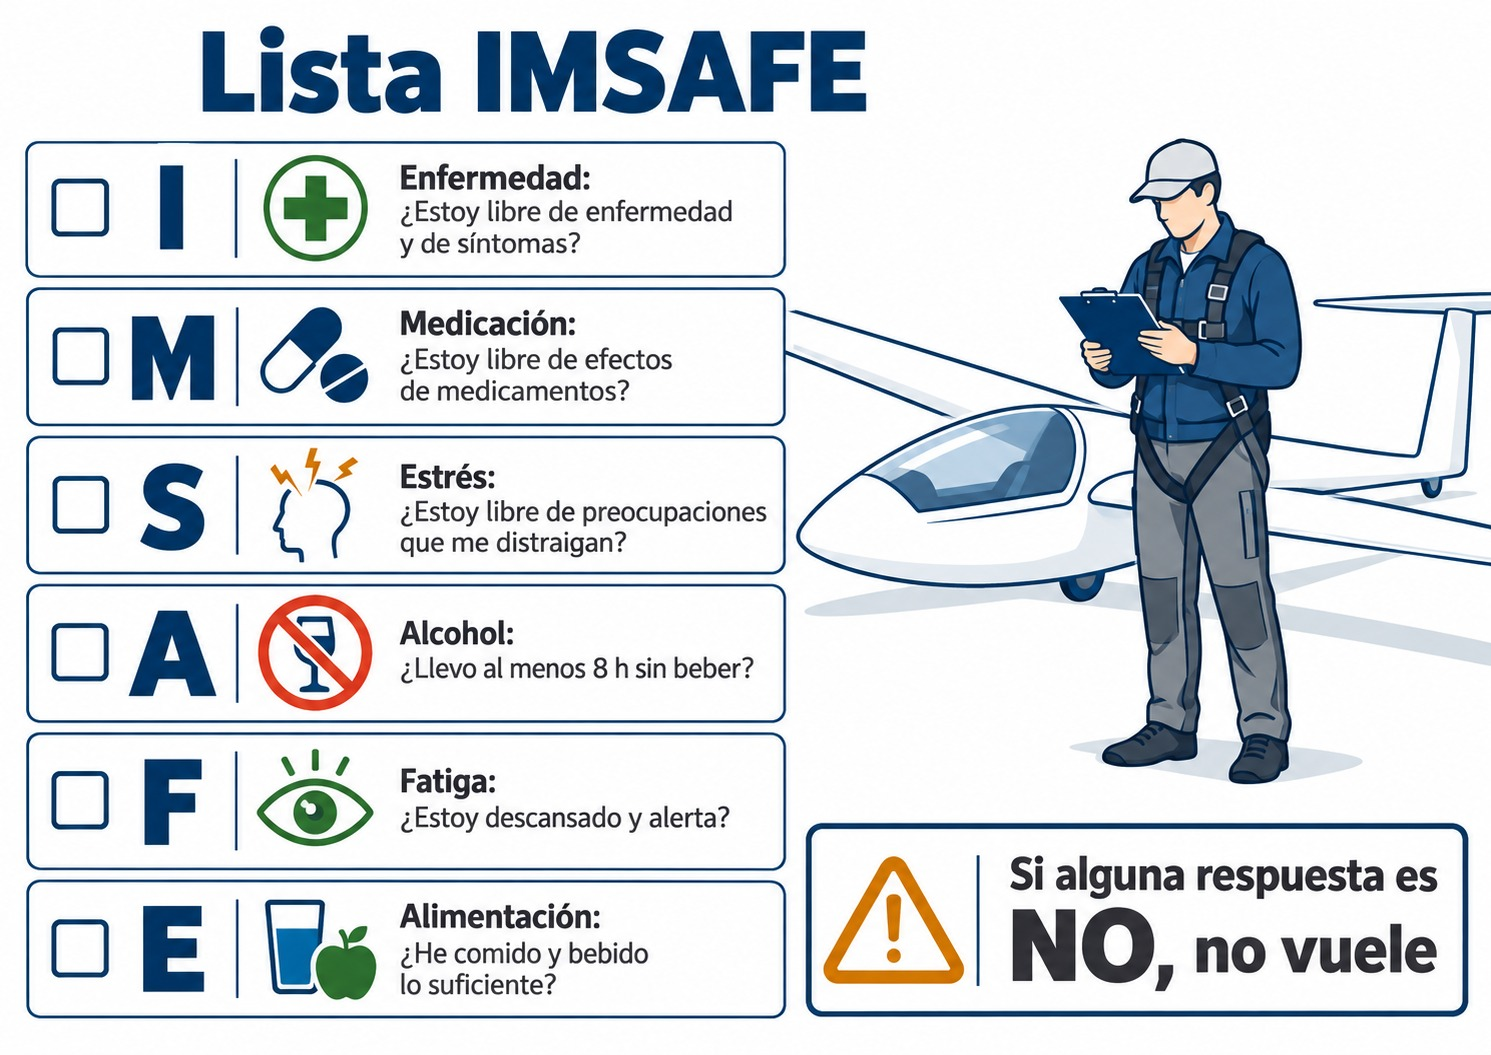
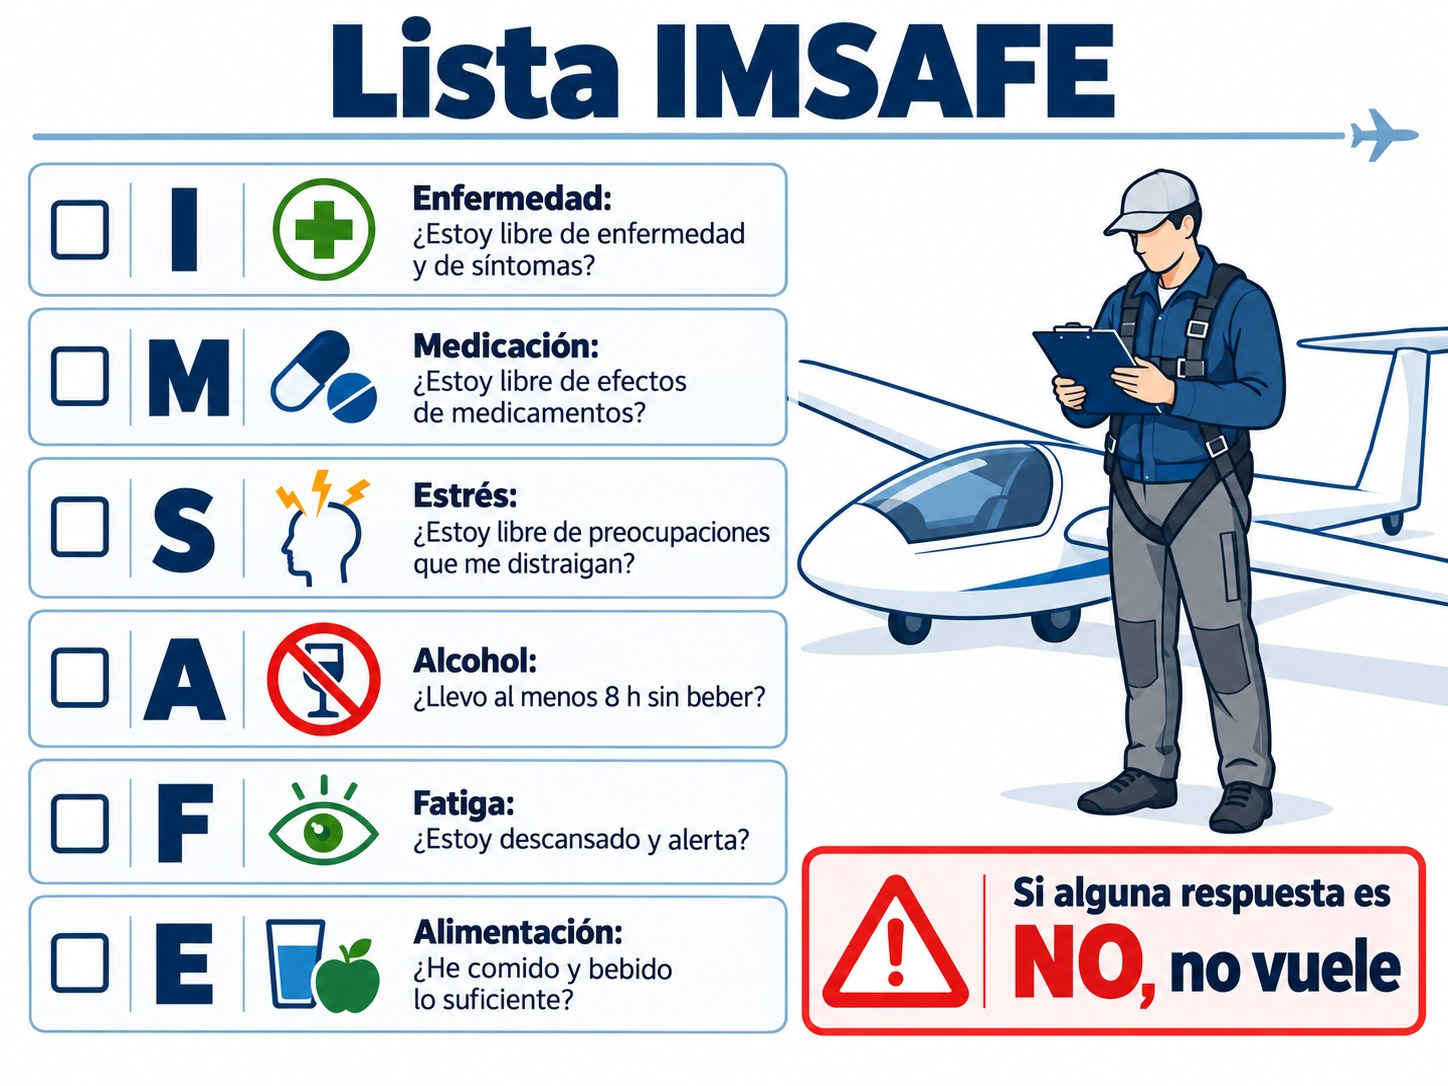
fix(02): traducir las figuras de la edición inglesa
Las quince figuras inglesas del libro 02 pasan a ser las españolas
nuevas con los textos traducidos (terminología de en/terminologia.yml),
editadas con ChatGPT. Ocho pies ingleses pierden la clase .corregir y
la nota (FIX: …). La curva de Yerkes-Dodson y la cinetosis conservan
algún rótulo en español y siguen marcadas.

Incluye la versión regenerada de cinco figuras españolas (Maslow,
IMSAFE, curva de estrés, cinetosis y cianosis). Fichas, seguimiento y
los dos CHANGELOG al día.

Refs #60

diff --git a/recursos/auditorias/seguimiento-libro-02.md b/recursos/auditorias/seguimiento-libro-02.md
@@ -148,15 +148,15 @@ clase y la nota, y se anota aquí.
 
 | Capítulo | Figura | Hallazgo | Marcada en | Sustituida en |
 | --- | --- | --- | --- | --- |
-| cap01 | `02-cap01-piramide-maslow` | TEC-01 (rótulo SMS) | fase 3 | 9 oct 2026, issue #60 (edición española) |
-| cap01 | `02-cap01-queso-suizo` | COH-03 | fase 3 | 9 oct 2026, issue #60 (edición española) |
-| cap01 | `02-cap01-cadena-error` | COH-04 | fase 3 | 9 oct 2026, issue #60 (edición española) |
-| cap02 | `02-cap02-imsafe` | COH-01 | fase 2 | 9 oct 2026, issue #60 (edición española) |
-| cap02 | `02-cap02-curva-estres` | TEC-09 | fase 3 | 9 oct 2026, issue #60 (edición española) |
-| cap03 | `02-cap03-decide` | TEC-03 | fase 2 | 9 oct 2026, issue #60 (edición española) |
-| cap03 | `02-cap03-vision-tunel` | PED-04 | fase 5 | 9 oct 2026, issue #60 (edición española) |
-| cap04 | `02-cap04-hipoxia-tiempo-conciencia` | COH-02 | fase 2 | 9 oct 2026, issue #60 (edición española) |
-| cap04 | `02-cap04-pulsioximetro` | COH-13 (marca comercial) | fase 7 | 9 oct 2026, issue #60 (edición española) |
+| cap01 | `02-cap01-piramide-maslow` | TEC-01 (rótulo SMS) | fase 3 | 9 oct 2026, issue #60; inglés, 20 oct 2026 |
+| cap01 | `02-cap01-queso-suizo` | COH-03 | fase 3 | 9 oct 2026, issue #60; inglés, 20 oct 2026 |
+| cap01 | `02-cap01-cadena-error` | COH-04 | fase 3 | 9 oct 2026, issue #60; inglés, 20 oct 2026 |
+| cap02 | `02-cap02-imsafe` | COH-01 | fase 2 | 9 oct 2026, issue #60; inglés, 20 oct 2026 |
+| cap02 | `02-cap02-curva-estres` | TEC-09 | fase 3 | 9 oct 2026, issue #60; inglés pendiente (un rótulo en español) |
+| cap03 | `02-cap03-decide` | TEC-03 | fase 2 | 9 oct 2026, issue #60; inglés, 20 oct 2026 |
+| cap03 | `02-cap03-vision-tunel` | PED-04 | fase 5 | 9 oct 2026, issue #60; inglés, 20 oct 2026 |
+| cap04 | `02-cap04-hipoxia-tiempo-conciencia` | COH-02 | fase 2 | 9 oct 2026, issue #60; inglés, 20 oct 2026 |
+| cap04 | `02-cap04-pulsioximetro` | COH-13 (marca comercial) | fase 7 | 9 oct 2026, issue #60; inglés, 20 oct 2026 |
 
 ## Fichas de las figuras
 
@@ -183,7 +183,11 @@ figuras, generadas con ChatGPT a partir de las fichas; sus fichas anotan herrami
 prompt, y vuelven a `borrador` hasta su revisión técnica. Las cinco de `revision-tecnica` que se
 rehacen recogen sus observaciones; el escaneo se redibuja desde el método del reloj, sin partir de
 la figura anterior. La ilusión vestibular no cambia: el autor la da por correcta con su pie actual y
-pasa a `final`. Las versiones inglesas siguen siendo las anteriores.
+pasa a `final`.
+
+El 20 de octubre de 2026 se rehacen las quince figuras inglesas: son las españolas con los textos
+traducidos. La curva de estrés y la cinetosis conservan algún rótulo en español y llevan la marca
+*(FIX: …)* hasta que se corrijan.
 
 ## Preguntas abiertas
 

diff --git a/02-factores-humanos/prompts/02-cap02-curva-estres.prompt.md b/02-factores-humanos/prompts/02-cap02-curva-estres.prompt.md
@@ -3,7 +3,7 @@ schema: 1
 figura: 02-cap02-curva-estres.png
 tipo: grafico-cualitativo
 estado: borrador
-fecha: "2026-10-09"
+fecha: "2026-10-20"
 herramienta:
   nombre: "ChatGPT (chatgpt.com)"
   version: ""
@@ -34,8 +34,8 @@ inglesa, que sigue siendo la anterior.
 
 ## Procedencia
 
-Generada con ChatGPT (chatgpt.com) el 09-10-2026 con el prompt de esta ficha, sin retoques
-posteriores. La figura anterior no tenía la procedencia documentada.
+Generada con ChatGPT (chatgpt.com) el 09-10-2026 y regenerada el 20-10-2026 con el prompt de esta
+ficha, sin retoques posteriores. La figura anterior no tenía la procedencia documentada.
 
 ## Qué fallaba en la figura anterior
 
@@ -77,6 +77,7 @@ lean a 9 pt al imprimirse.
 
 ## Edición inglesa
 
-`en/02-human-performance/imagenes/` lleva una copia idéntica de esta imagen. Al rehacerla, se
-genera también la versión con las etiquetas en inglés (términos de `en/terminologia.yml`), se
-sustituye allí y se quita la marca *(FIX: …)* del pie inglés.
+`en/02-human-performance/imagenes/` lleva desde el 20 de octubre de 2026 la figura española con los
+textos traducidos al inglés, editada con ChatGPT a partir de ella (issue #60); la traducción sigue
+`en/terminologia.yml`. Aún queda en español «Máximo rendimiento»: su pie inglés conserva la marca
+*(FIX: …)* hasta que se traduzca.

diff --git a/02-factores-humanos/prompts/02-cap01-piramide-maslow.prompt.md b/02-factores-humanos/prompts/02-cap01-piramide-maslow.prompt.md
@@ -3,7 +3,7 @@ schema: 1
 figura: 02-cap01-piramide-maslow.png
 tipo: diagrama-conceptual
 estado: borrador
-fecha: "2026-10-09"
+fecha: "2026-10-20"
 herramienta:
   nombre: "ChatGPT (chatgpt.com)"
   version: ""
@@ -35,8 +35,8 @@ anterior.
 
 ## Procedencia
 
-Generada con ChatGPT (chatgpt.com) el 09-10-2026 con el prompt de esta ficha, sin retoques
-posteriores. La figura anterior no tenía la procedencia documentada.
+Generada con ChatGPT (chatgpt.com) el 09-10-2026 y regenerada el 20-10-2026 con el prompt de esta
+ficha, sin retoques posteriores. La figura anterior no tenía la procedencia documentada.
 
 ## Qué fallaba en la figura anterior
 
@@ -77,6 +77,6 @@ lean a 9 pt al imprimirse.
 
 ## Edición inglesa
 
-`en/02-human-performance/imagenes/` lleva una copia idéntica de esta imagen. Al rehacerla, se
-genera también la versión con las etiquetas en inglés (términos de `en/terminologia.yml`), se
-sustituye allí y se quita la marca *(FIX: …)* del pie inglés.
+`en/02-human-performance/imagenes/` lleva desde el 20 de octubre de 2026 la figura española con los
+textos traducidos al inglés, editada con ChatGPT a partir de ella (issue #60); la traducción sigue
+`en/terminologia.yml`. Se quita la marca *(FIX: …)* del pie inglés, si la tenía.

diff --git a/02-factores-humanos/prompts/02-cap02-imsafe.prompt.md b/02-factores-humanos/prompts/02-cap02-imsafe.prompt.md
@@ -3,7 +3,7 @@ schema: 1
 figura: 02-cap02-imsafe.jpg
 tipo: infografia
 estado: borrador
-fecha: "2026-10-09"
+fecha: "2026-10-20"
 herramienta:
   nombre: "ChatGPT (chatgpt.com)"
   version: ""
@@ -35,8 +35,8 @@ anterior.
 
 ## Procedencia
 
-Generada con ChatGPT (chatgpt.com) el 09-10-2026 con el prompt de esta ficha, sin retoques
-posteriores. La figura anterior no tenía la procedencia documentada.
+Generada con ChatGPT (chatgpt.com) el 09-10-2026 y regenerada el 20-10-2026 con el prompt de esta
+ficha, sin retoques posteriores. La figura anterior no tenía la procedencia documentada.
 
 ## Qué fallaba en la figura anterior
 
@@ -77,6 +77,6 @@ lean a 9 pt al imprimirse.
 
 ## Edición inglesa
 
-`en/02-human-performance/imagenes/` lleva una copia idéntica de esta imagen. Al rehacerla, se
-genera también la versión con las etiquetas en inglés (términos de `en/terminologia.yml`), se
-sustituye allí y se quita la marca *(FIX: …)* del pie inglés.
+`en/02-human-performance/imagenes/` lleva desde el 20 de octubre de 2026 la figura española con los
+textos traducidos al inglés, editada con ChatGPT a partir de ella (issue #60); la traducción sigue
+`en/terminologia.yml`. Se quita la marca *(FIX: …)* del pie inglés, si la tenía.

diff --git a/02-factores-humanos/prompts/02-cap02-cinetosis-fijacion.prompt.md b/02-factores-humanos/prompts/02-cap02-cinetosis-fijacion.prompt.md
@@ -3,7 +3,7 @@ schema: 1
 figura: 02-cap02-cinetosis-fijacion.jpg
 tipo: diagrama-conceptual
 estado: borrador
-fecha: "2026-10-09"
+fecha: "2026-10-20"
 herramienta:
   nombre: "ChatGPT (chatgpt.com)"
   version: ""
@@ -31,8 +31,8 @@ inglesa, que sigue siendo la anterior.
 
 ## Procedencia
 
-Generada con ChatGPT (chatgpt.com) el 09-10-2026 con el prompt de esta ficha, sin retoques
-posteriores. La figura anterior no tenía la procedencia documentada.
+Generada con ChatGPT (chatgpt.com) el 09-10-2026 y regenerada el 20-10-2026 con el prompt de esta
+ficha, sin retoques posteriores. La figura anterior no tenía la procedencia documentada.
 
 ## Observaciones sobre la figura anterior
 
@@ -67,5 +67,7 @@ lean a 9 pt al imprimirse.
 
 ## Edición inglesa
 
-`en/02-human-performance/imagenes/` lleva una copia idéntica de esta imagen. Si se sustituye, se
-copia también allí.
+`en/02-human-performance/imagenes/` lleva desde el 20 de octubre de 2026 la figura española con los
+textos traducidos al inglés, editada con ChatGPT a partir de ella (issue #60); la traducción sigue
+`en/terminologia.yml`. Aún quedan en español «Correcto» y «Evitar»: su pie inglés conserva la marca
+*(FIX: …)* hasta que se traduzcan.

diff --git a/02-factores-humanos/prompts/02-cap04-cianosis.prompt.md b/02-factores-humanos/prompts/02-cap04-cianosis.prompt.md
@@ -3,7 +3,7 @@ schema: 1
 figura: 02-cap04-cianosis.jpg
 tipo: ilustracion-realista
 estado: borrador
-fecha: "2026-10-09"
+fecha: "2026-10-20"
 herramienta:
   nombre: "ChatGPT (chatgpt.com)"
   version: ""
@@ -33,8 +33,8 @@ nueva y su versión inglesa, que sigue siendo la anterior.
 
 ## Procedencia
 
-Generada con ChatGPT (chatgpt.com) el 09-10-2026 con el prompt de esta ficha, sin retoques
-posteriores. La figura anterior no tenía la procedencia documentada.
+Generada con ChatGPT (chatgpt.com) el 09-10-2026 y regenerada el 20-10-2026 con el prompt de esta
+ficha, sin retoques posteriores. La figura anterior no tenía la procedencia documentada.
 
 ## Observaciones sobre la figura anterior
 
@@ -71,5 +71,6 @@ lean a 9 pt al imprimirse.
 
 ## Edición inglesa
 
-`en/02-human-performance/imagenes/` lleva una copia idéntica de esta imagen. Si se sustituye, se
-copia también allí.
+`en/02-human-performance/imagenes/` lleva desde el 20 de octubre de 2026 la figura española con los
+textos traducidos al inglés, editada con ChatGPT a partir de ella (issue #60); la traducción sigue
+`en/terminologia.yml`. Se quita la marca *(FIX: …)* del pie inglés, si la tenía.

diff --git a/en/02-human-performance/CHANGELOG-02-en.md b/en/02-human-performance/CHANGELOG-02-en.md
@@ -13,6 +13,15 @@ was translated from (`origen-commit`). Terminology follows `en/terminologia.yml`
 
 ## [In progress]
 
+### Fixed
+
+* **cap01–cap04, figures** — the fifteen figures of the book are replaced with the new Spanish
+  ones, with their text translated into English (terminology from `en/terminologia.yml`). The
+  figures marked “IN REVIEW” lose the mark and the *(FIX: …)* note: Maslow's pyramid, the Swiss
+  cheese model, the error chain, IMSAFE, DECIDE, tunnel vision, the Time of Useful Consciousness
+  and the pulse oximeter. The Yerkes-Dodson curve and the motion sickness figure keep a label in
+  Spanish and carry the mark until it is translated. Ported from the Spanish edition; issue #60.
+
 ## [0.8.1] — 2 October 2026
 
 **What to reread:** **the whole book.** The corrections of the audit of book 02 (1 October 2026) are ported from the Spanish edition and touch the four chapters, the glossary, the bibliography, the syllabus appendix, the introduction and the epigraph. Also **cap04, the oxygen AMC**, and the licence.

diff --git a/02-factores-humanos/prompts/02-cap02-ilusiones-opticas.prompt.md b/02-factores-humanos/prompts/02-cap02-ilusiones-opticas.prompt.md
@@ -42,6 +42,6 @@ Sin documentar. Última modificación en el repositorio: 31-07-2026.
 
 ## Edición inglesa
 
-`en/02-human-performance/imagenes/` lleva una copia idéntica de esta imagen. Al rehacerla, se
-genera también la versión con las etiquetas en inglés (términos de `en/terminologia.yml`), se
-sustituye allí y se quita la marca *(FIX: …)* del pie inglés.
+`en/02-human-performance/imagenes/` lleva desde el 20 de octubre de 2026 la figura española con los
+textos traducidos al inglés, editada con ChatGPT a partir de ella (issue #60); la traducción sigue
+`en/terminologia.yml`. Se quita la marca *(FIX: …)* del pie inglés, si la tenía.

diff --git a/02-factores-humanos/prompts/02-cap04-hipoxia-tiempo-conciencia.prompt.md b/02-factores-humanos/prompts/02-cap04-hipoxia-tiempo-conciencia.prompt.md
@@ -110,6 +110,6 @@ lean a 9 pt al imprimirse.
 
 ## Edición inglesa
 
-`en/02-human-performance/imagenes/` lleva una copia idéntica de esta imagen. Al rehacerla, se
-genera también la versión con las etiquetas en inglés (términos de `en/terminologia.yml`), se
-sustituye allí y se quita la marca *(FIX: …)* del pie inglés.
+`en/02-human-performance/imagenes/` lleva desde el 20 de octubre de 2026 la figura española con los
+textos traducidos al inglés, editada con ChatGPT a partir de ella (issue #60); la traducción sigue
+`en/terminologia.yml`. Se quita la marca *(FIX: …)* del pie inglés, si la tenía.

diff --git a/02-factores-humanos/prompts/02-cap01-cadena-error.prompt.md b/02-factores-humanos/prompts/02-cap01-cadena-error.prompt.md
@@ -74,6 +74,6 @@ lean a 9 pt al imprimirse.
 
 ## Edición inglesa
 
-`en/02-human-performance/imagenes/` lleva una copia idéntica de esta imagen. Al rehacerla, se
-genera también la versión con las etiquetas en inglés (términos de `en/terminologia.yml`), se
-sustituye allí y se quita la marca *(FIX: …)* del pie inglés.
+`en/02-human-performance/imagenes/` lleva desde el 20 de octubre de 2026 la figura española con los
+textos traducidos al inglés, editada con ChatGPT a partir de ella (issue #60); la traducción sigue
+`en/terminologia.yml`. Se quita la marca *(FIX: …)* del pie inglés, si la tenía.

diff --git a/02-factores-humanos/prompts/02-cap01-modelo-shell.prompt.md b/02-factores-humanos/prompts/02-cap01-modelo-shell.prompt.md
@@ -71,6 +71,6 @@ lean a 9 pt al imprimirse.
 
 ## Edición inglesa
 
-`en/02-human-performance/imagenes/` lleva una copia idéntica de esta imagen. Al rehacerla, se
-genera también la versión con las etiquetas en inglés (términos de `en/terminologia.yml`), se
-sustituye allí y se quita la marca *(FIX: …)* del pie inglés.
+`en/02-human-performance/imagenes/` lleva desde el 20 de octubre de 2026 la figura española con los
+textos traducidos al inglés, editada con ChatGPT a partir de ella (issue #60); la traducción sigue
+`en/terminologia.yml`. Se quita la marca *(FIX: …)* del pie inglés, si la tenía.

diff --git a/02-factores-humanos/prompts/02-cap01-queso-suizo.prompt.md b/02-factores-humanos/prompts/02-cap01-queso-suizo.prompt.md
@@ -80,6 +80,6 @@ lean a 9 pt al imprimirse.
 
 ## Edición inglesa
 
-`en/02-human-performance/imagenes/` lleva una copia idéntica de esta imagen. Al rehacerla, se
-genera también la versión con las etiquetas en inglés (términos de `en/terminologia.yml`), se
-sustituye allí y se quita la marca *(FIX: …)* del pie inglés.
+`en/02-human-performance/imagenes/` lleva desde el 20 de octubre de 2026 la figura española con los
+textos traducidos al inglés, editada con ChatGPT a partir de ella (issue #60); la traducción sigue
+`en/terminologia.yml`. Se quita la marca *(FIX: …)* del pie inglés, si la tenía.
